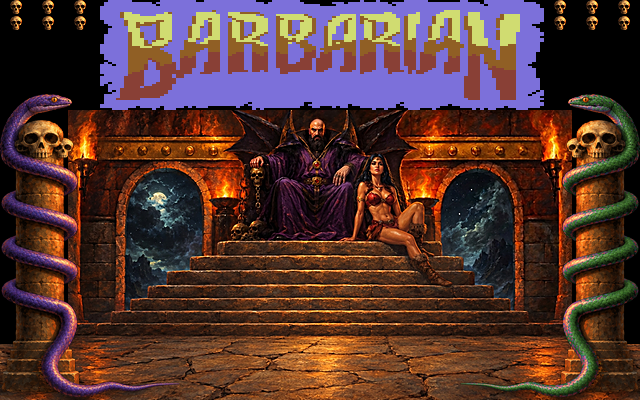
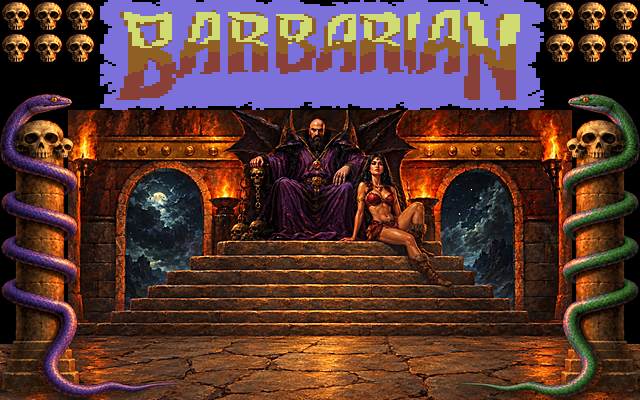
Enlarge throne room life skulls
Use 8×16 half-cells to erase larger skulls and lower the snake heads to avoid overlap. Regenerate the throne room assets at all HD scales.

Changed region(s): [[0.8438, 0.0, 1.0, 0.15], [0.0, 0.0, 0.1562, 0.15]]

diff --git a/js/game/stage.js b/js/game/stage.js
@@ -73,12 +73,17 @@ export function newRound(g) {
 // strip of the original arena, so such a stage has no background and tree files: the background is copied from the
 // picture, across the whole screen, and the `columns` (files `<name>A` and `<name>B`, with transparency, as high as the
 // view reaches) are what the fighters walk behind.
-// `snakes` is the name of the pictures of the snakes in the corners (default 'snake').
+// `snakes` is the name of the pictures of the snakes in the corners (default 'snake'), `snakeY` the row they are drawn at
+// (default 16). A `lifeCell` is the size of one of the 12 cells of the life indicator in pixels (default 8x8, the text
+// cells of the original).
 const STAGES = {
   plain: { picture: 'plain', background: 'plainBackground', trees: 'forest' },
   forest: { picture: 'forest', background: 'forestBackground', trees: 'forest' },
   // the fighters of the painted throne room are as big as the sorcerer and the princess on the throne
-  throne: { picture: 'throne', view: { scale: 1.5, floorY: 190 }, snakes: 'throneSnake', columns: 'throneColumn' },
+  throne: {
+    picture: 'throne', view: { scale: 1.5, floorY: 190 }, snakes: 'throneSnake', snakeY: 36, columns: 'throneColumn',
+    lifeCell: { w: 8, h: 16 },
+  },
   arena: { picture: 'arena', background: 'arenaBackground', trees: 'arena' },
   torture: { picture: 'torture', background: 'tortureBackground', trees: 'arena' },
 };
@@ -124,6 +129,8 @@ function loadStage(g) {
   if (!stage) return;
   g.view = stage.view ?? ORIGINAL_VIEW;
   g.snakes = stage.snakes ?? 'snake';
+  g.snakeY = stage.snakeY ?? 16;
+  g.lifeCell = stage.lifeCell ?? null;
   const picture = rt.loadimage(`C64/stage/${stage.picture}.gif`, 256);
   rt.copypalette(picture);
   rt.putimage(picture);

diff --git a/js/game/render/hud.js b/js/game/render/hud.js
@@ -23,14 +23,26 @@ const SCORE_COL_A = 97;
 const SCORE_COL_B = 185;
 
 // Life is shown as 12 cells in two rows of 6 that are erased one by one: the top row first, right to left.
-function drawLife(rt, life, firstCol) {
+// A stage with a `lifeCell` (see stage.js) has cells of that size instead of the 8x8 text cells.
+function eraseLife(g, row, col, count) {
+  const { rt, lifeCell } = g;
+  if (!lifeCell) {
+    for (let i = 0; i < count; i++) printAt(rt, row, col + i, ' ');
+    return;
+  }
+  const x = (col - 1) * lifeCell.w;
+  const y = (row - 1) * lifeCell.h;
+  rt.line(x, y, x + count * lifeCell.w - 1, y + lifeCell.h - 1, rt.bg, 'BF');
+}
+
+function drawLife(g, life, firstCol) {
   if (life === 0) {
-    printAt(rt, 1, firstCol, '      ');
-    printAt(rt, 2, firstCol, '      ');
+    eraseLife(g, 1, firstCol, 6);
+    eraseLife(g, 2, firstCol, 6);
   } else if (life >= 1 && life <= 11) {
     const row = life > 5 ? 2 : 1;
     const col = life > 5 ? life - 5 : life + 1;
-    printAt(rt, row, firstCol + col - 1, ' ');
+    eraseLife(g, row, firstCol + col - 1, 1);
   }
 }
 
@@ -84,8 +96,8 @@ export function hud(g) {
   drawScore(rt, b.score, SCORE_COL_B);
   rt.printmode(rt.FILLBACKGROUND);
   rt.font(8);
-  drawLife(rt, a.life, 1);
-  drawLife(rt, b.life, 35);
+  drawLife(g, a.life, 1);
+  drawLife(g, b.life, 35);
   if (g.showVersion === 'yes') {
     printAt(rt, 18, 16, 'FL VERSION');
     printAt(rt, 19, 19, '2012');

diff --git a/js/game/state.js b/js/game/state.js
@@ -55,6 +55,8 @@ export function createGame(rt, menu) {
     // pictures and fonts
     view: ORIGINAL_VIEW,   // how big and how low the fighters are drawn (see render/view.js)
     snakes: 'snake',       // the pictures of the snakes in the corners: C64/stage/<this>A1.gif ... (see game/stage.js)
+    snakeY: 16,            // the row they are drawn at
+    lifeCell: null,        // the size { w, h } of a cell of the life indicator, null for the 8x8 text cells
     arenaCopies: {},       // the arena pictures copied from the picture of a stage, by stage (see game/stage.js)
     backdrop: null,        // { image, x, y }: the arena between the trees, drawn again on every frame
     treeLeft: null,        // the trees in front of the fighters at the sides (the columns of a stage with a view)

diff --git a/js/game/render/snakes.js b/js/game/render/snakes.js
@@ -1,7 +1,6 @@
 // The two snakes at the top corners of the arena: they curl up while the fighter next to them is in pain.
 // A's picture is at the left edge of the screen and B's at the right edge, whatever their width.
 
-const SNAKE_Y = 16;
 
 // frame of the snake -> position of the fighter walking in
 const WALK_IN_A = { 3: 2, 4: 3, 5: 2, 6: 1 };
@@ -14,7 +13,7 @@ const PAIN_FRAME = { hit1: 2, hit2: 3, hit3: 2, hit4: 1, fall1: 2, fall2: 3, fal
 function drawSnake(g, side, frame) {
   const { rt } = g;
   const image = rt.loadimage(`C64/stage/${g.snakes}${side}${frame}.gif`);
-  rt.putimage(image, side === 'A' ? 0 : 320 - rt.imagewidth(image), SNAKE_Y);
+  rt.putimage(image, side === 'A' ? 0 : 320 - rt.imagewidth(image), g.snakeY);
 }
 
 function drawPain(g, f, side) {

diff --git a/tools/draw_snakes.py b/tools/draw_snakes.py
@@ -33,9 +33,10 @@ MASTER = 6                   # pixels per game pixel of the column that is kept 
 PX_X, PX_Y = 7.05, 7.49      # pixels of the painting per game pixel, across and down: the model paints the column a little
                              # taller than the layout, and these give back the proportions of the layout (see below)
 FLOOR = 200
-HEAD_TOP, HEAD_ROWS, HEAD_WIDTH = 16, 64, 62   # where the game draws the head poses, and their size: they end at row 80, a
+HEAD_TOP, HEAD_ROWS, HEAD_WIDTH = 36, 44, 62   # where the game draws the head poses (`snakeY` in stage.js), and their size: they end at row 80, a
                                                # little below where the column that the fighters walk behind starts (OVERLAY_TOP)
 SPAN = 98                    # game pixels covered by the column, from the edge of the screen: the tail reaches there
+CLEAR_TOP = 16               # below the panel of the scores and the life skulls, the pillars of the C64 picture are cleared from this row
 CLEAR = 34                   # the C64 picture has its pillar up to this column
 PILLAR_TOP = 60              # the game row of the top of the column (RIM_Y), the top of its skulls
 SHADOW_FROM = 172            # the game row where the floor starts: the base and the tail cast a shadow on it
@@ -192,7 +193,7 @@ def clear_pillars(out, s):
     room go black, and the floor goes on to the edge of the screen (the room's floor, mirrored)."""
     for side in ('left', 'right'):
         clear = slice(0, CLEAR * s) if side == 'left' else slice((320 - CLEAR) * s, 320 * s)
-        out[HEAD_TOP * s:, clear] = 0
+        out[CLEAR_TOP * s:, clear] = 0
         mirrored = slice(CLEAR * s, 2 * CLEAR * s) if side == 'left' else slice((320 - 2 * CLEAR) * s, (320 - CLEAR) * s)
         out[FLOOR_VISIBLE * s:, clear] = out[FLOOR_VISIBLE * s:, mirrored][:, ::-1]
 
@@ -271,11 +272,13 @@ def snake_head(pose, side, s, backdrop):
     return np.clip(np.rint(sprite), 0, 255).astype(np.uint8)
 
 
-# The 6 skulls of a fighter: 3 columns x 2 rows, each over two of the 8 x 8 text cells that the game blanks one by one
-# as life is lost (hud.js), so a skull is lost in two halves: it is 6 wide and centred on the line between its cells.
-SKULL_COLUMNS = {'left': (4, 20, 36), 'right': (276, 292, 308)}
-SKULL_ROWS = (0, 8)
-SKULL_SIZE = (6, 7)
+# The 6 skulls of a fighter: 3 columns x 2 rows, each in a cell of 16 x 16 game pixels (lifeCell of the throne stage in
+# stage.js: the game blanks 8 x 16 half cells one by one as life is lost, see hud.js), so a skull is lost in two halves.
+# It is 14 x 14 and centred in its cell, with the two halves split down its middle.
+SKULL_COLUMNS = {'left': (0, 16, 32), 'right': (272, 288, 304)}
+SKULL_ROWS = (0, 16)
+SKULL_CELL = 16
+SKULL_SIZE = (14, 14)
 
 
 def life_skull(s):
@@ -297,8 +300,8 @@ def paint_life_skulls(out, s):
     skull = life_skull(s)
     for side, columns in SKULL_COLUMNS.items():
         x0 = 0 if side == 'left' else 272
-        out[:16 * s, x0 * s:(x0 + 48) * s] = 0
+        out[:2 * SKULL_CELL * s, x0 * s:(x0 + 3 * SKULL_CELL) * s] = 0
         for x in columns:
             for y in SKULL_ROWS:
-                left = (x + (8 - SKULL_SIZE[0]) // 2) * s
-                out[y * s:(y + SKULL_SIZE[1]) * s, left:left + SKULL_SIZE[0] * s] = skull
+                left, top = (x + (SKULL_CELL - SKULL_SIZE[0]) // 2) * s, (y + (SKULL_CELL - SKULL_SIZE[1]) // 2) * s
+                out[top:top + SKULL_SIZE[1] * s, left:left + SKULL_SIZE[0] * s] = skull

diff --git a/README.md b/README.md
@@ -142,8 +142,10 @@ is behind each game pixel. [`assets/manifest.json`](assets/manifest.json) descri
   190) out of the finished picture with the painting's transparency as `throneColumnA.png` / `throneColumnB.png`, and
   the game draws them over the fighters (`columns` in `STAGES`). To change the column, edit the layout script, paint it
   again and update the marks at the top of `draw_snakes.py`.
-  The life of a fighter is 6 skulls per side instead of the brown blobs; the game blanks them one 8×8 text cell at a
-  time (`js/game/render/hud.js`), so each skull is lost in two halves.
+  The life of a fighter is 6 skulls per side instead of the brown blobs, each 14×14 in a 16×16 cell (3 columns × 2 rows,
+  two rows of the screen high); the stage's `lifeCell` makes the game blank them one 8×16 half cell at a time
+  (`js/game/render/hud.js`), so each skull is lost in two halves. The snake heads are drawn lower (`snakeY`) so that
+  they do not cover the skulls.
 * **Fighters in proportion** – the sorcerer and the princess of the painted throne room are bigger than the C64
   fighters, so the throne stage has a `view` in `STAGES` (`js/game/stage.js`: `scale` and `floorY`, the row of the
   feet; now 1.5× and row 190 instead of 176). Everything that stands on the floor – the fighters, blood, severed
